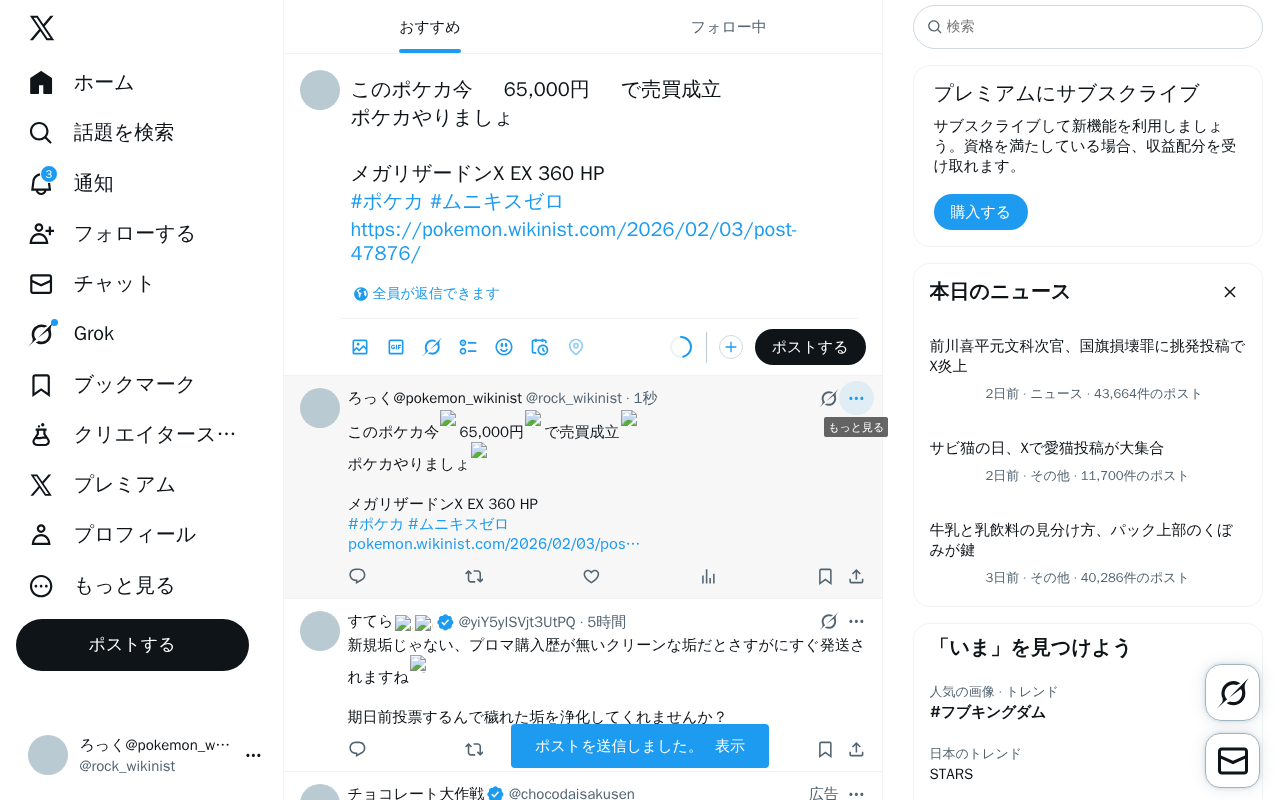
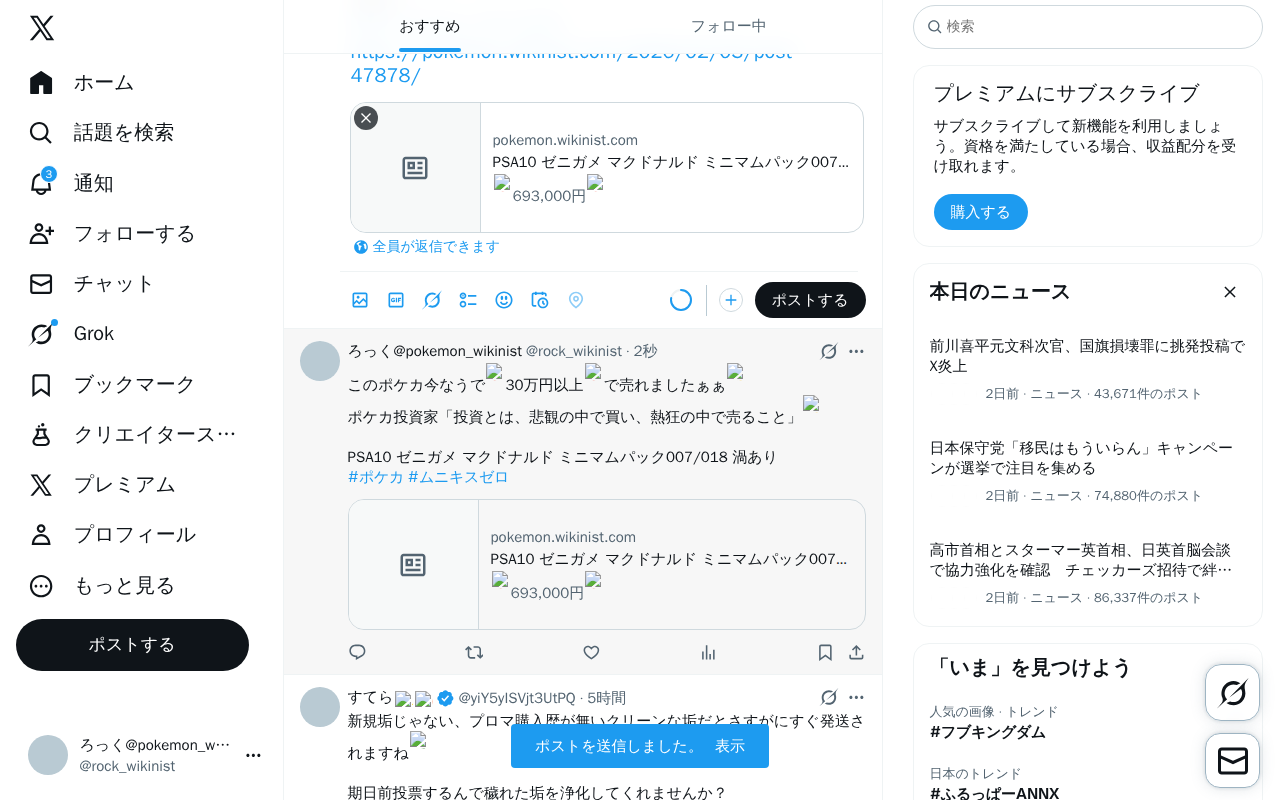
update system data

diff --git a/content/posts/test-pokemon-20260203-001929.md b/content/posts/test-pokemon-20260203-001929.md
@@ -1,0 +1,37 @@
+---
+title: "PSA10 ゼニガメ マクドナルド ミニマムパック007/018 渦あり"
+date: 2026-02-03T00:19:29+09:00
+description: "🔥693,000円🔥 メルカリで「PSA10 ゼニガメ マクドナルド ミニマムパック007/018 渦あり」が販売中！"
+amazon_url: "https://jp.mercari.com/item/m61024418490?afid=1391290753"
+categories: ["ポケモン"]
+tags: ["50万円以上"]
+cover:
+  image: "https://static.mercdn.net/thumb/item/webp/m61024418490_1.jpg?1770043469"
+  hiddenInList: true
+  hiddenInSingle: true
+---
+
+<div class="image-and-buttons">
+    <div class="image-area" style="margin-bottom: 20px; text-align: center;">
+        <a href="https://jp.mercari.com/item/m61024418490?afid=1391290753" target="_blank" rel="nofollow sponsored noopener noreferrer">
+            <img src="https://static.mercdn.net/thumb/item/webp/m61024418490_1.jpg?1770043469" alt="693,000" style="max-width: 100%; border-radius: 8px; border: 1px solid #ddd;" />
+        </a>
+        <br><span style="font-size:1.5em;color:red;font-weight:bold;">🔥693,000円🔥</span>
+    </div>
+    <div class="link-buttons">
+        <a href="https://jp.mercari.com/item/m61024418490?afid=1391290753" target="_blank" rel="nofollow sponsored noopener noreferrer">
+            💎 商品状態を見る
+        </a>
+        <a href="https://jp.mercari.com/search?afid=1391290753&category_id=1289&keyword=PSA10%20%E3%82%BC%E3%83%8B%E3%82%AC%E3%83%A1%20%E3%83%9E%E3%82%AF%E3%83%89%E3%83%8A%E3%83%AB%E3%83%89%20%E3%83%9F%E3%83%8B%E3%83%9E%E3%83%A0%E3%83%91%E3%83%83%E3%82%AF007%2F018%20%E6%B8%A6%E3%81%82%E3%82%8A" target="_blank" rel="nofollow sponsored noopener noreferrer">
+            🔍 類似商品を見る
+        </a>
+        <a href="https://jp.mercari.com/search?afid=1391290753&brand_id=&category_id=1289&color_id=&item_condition_id=&item_types=&keyword=PSA10%20%E3%82%BC%E3%83%8B%E3%82%AC%E3%83%A1%20%E3%83%9E%E3%82%AF%E3%83%89%E3%83%8A%E3%83%AB%E3%83%89%20%E3%83%9F%E3%83%8B%E3%83%9E%E3%83%A0%E3%83%91%E3%83%83%E3%82%AF007%2F018%20%E6%B8%A6%E3%81%82%E3%82%8A&order=desc&shipping_method=&shipping_payer_id=&size_id=&sort=created_time&status=sold_out%2Ctrading" target="_blank" rel="nofollow sponsored noopener noreferrer">
+            📈 価格推移・履歴を見る
+        </a>
+    </div>
+</div>
+
+<p style="font-size:1.0em;color:#555;line-height:1.6;">
+「PSA10 ゼニガメ マクドナルド ミニマムパック007/018 渦あり」はメルカリに出品されました！<br>
+最新のポケモン情報は当サイトで随時更新中です。
+</p>
